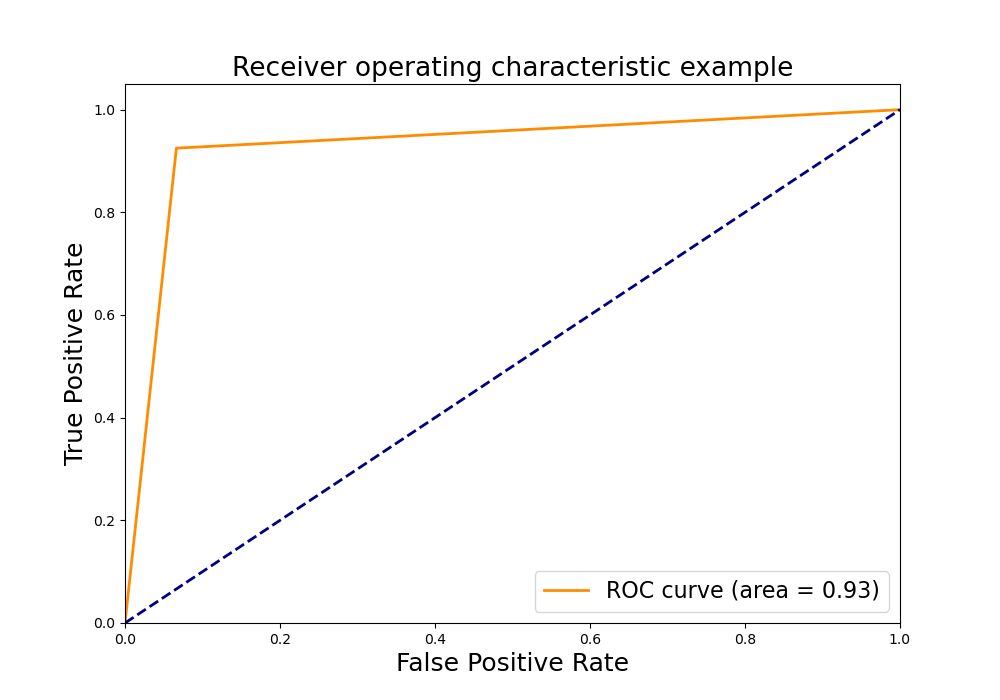
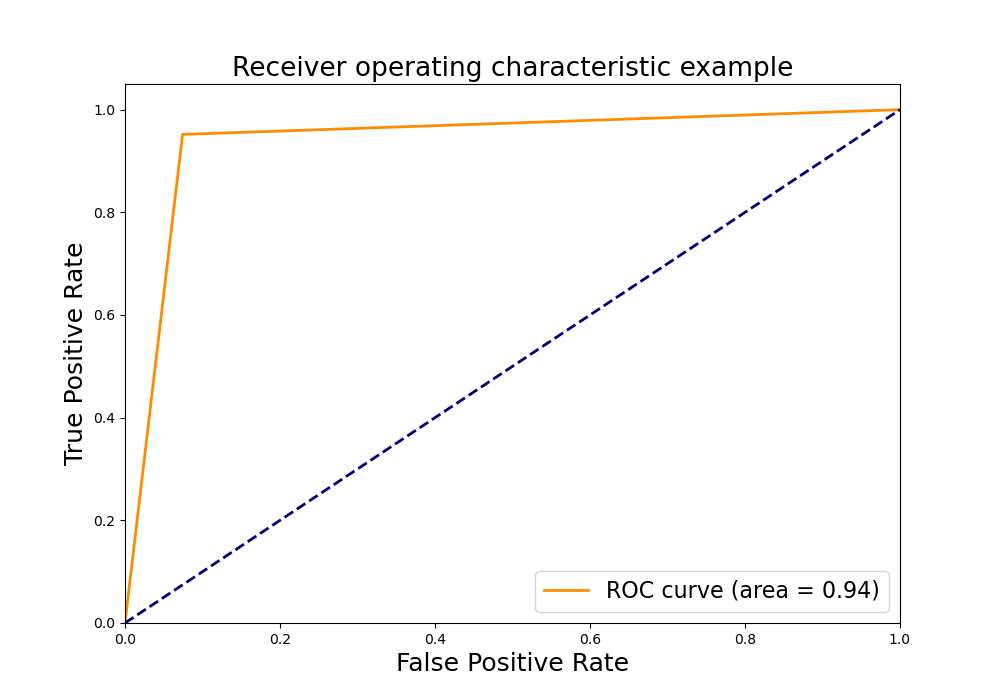
lib_classification save_model_diagnostics ok

diff --git a/sources/classification/lib_classification.py b/sources/classification/lib_classification.py
@@ -216,7 +216,12 @@ def do_cross_validation(X_train, y_train, scorings, num_iter, k, dataset_name=""
     f.close()
 
 
-def get_confusion_matrix(y_test, y_pred, class_names, model, savefig=True, dataset_name="", plotfig=False):
+def make_output_dir(dataset_name):
+    if not os.path.exists("./data/output/{}".format(dataset_name)):
+        os.makedirs("./data/output/{}".format(dataset_name)) 
+
+
+def save_confusion_matrix(y_test, y_pred, class_names, model, dataset_name=""):
     """Affiche la matrice de confusion
 
     Parametres: 
@@ -255,21 +260,17 @@ def get_confusion_matrix(y_test, y_pred, class_names, model, savefig=True, datas
     plt.xlabel("Catégories prédites", fontsize=font_size + 3)
     plt.ylabel("Catégories réelles", fontsize=font_size + 3)
     print("dataset_name =", dataset_name)
-    if(savefig):
-        if not os.path.exists("./data/output/{}".format(dataset_name)):
-            os.makedirs("./data/output/{}".format(dataset_name)) 
-        path = "./data/output/{}/confusion_matrix_{}".format(dataset_name, model.__class__.__name__)
-        plt.savefig(path)
-    if(plotfig):
-        plt.show()
+
+    path = "./data/output/{}/confusion_matrix_{}".format(dataset_name, model.__class__.__name__)
+    plt.savefig(path)
 
 
 #Entrees
     #train_sizes (liste de float) : tailles du train en pourcentage 
     # y_train (numpy ndarray int) : Les etiquettes au format int (le format string ne marche pas)
     #cv_param : parametres de type kfold pour la cross validation
-def get_learning_curve(model, X_train, y_train, cv_param, scoring, train_sizes, n_jobs=-1, 
-                        savefig=True, dataset_name="", plotfig=True):
+def save_learning_curve(model, X_train, y_train, cv_param, scoring, train_sizes, n_jobs=-1, 
+                        dataset_name=""):
     """Affiche la learning curve du modele selectionne selon un critere
        Learning curve = performances du modele (selon un critere) en fonction de la taille du trainset
 
@@ -305,15 +306,14 @@ def get_learning_curve(model, X_train, y_train, cv_param, scoring, train_sizes, 
     plt.xlabel("Taille du trainset", fontsize=18)
     plt.ylabel(scoring.capitalize(), fontsize=18)
     plt.legend(loc="upper right", prop={'size': 16})
-    if(savefig):
-        path = "./data/output/{}/learning_curve_{}_{}".format(dataset_name, model.__class__.__name__, scoring)
-        plt.savefig(path)
-    if(plotfig):
-        plt.show()
+    
+    path = "./data/output/{}/learning_curve_{}_{}".format(dataset_name, model.__class__.__name__, scoring)
+    plt.savefig(path)
 
 
-def get_all_learning_curves(model, X_train, y_train, cv_param, scorings, train_sizes, n_jobs=-1, 
-                            savefig=False, dataset_name="", plotfig=False):
+
+def save_all_learning_curves(model, X_train, y_train, cv_param, scorings, train_sizes, n_jobs=-1, 
+                            dataset_name=""):
     """Affiche les learning curves du modele selectionne selon les critere choisis par l'utilisateur
        Learning curve = performances du modele (selon un critere) en fonction de la taille du trainset
 
@@ -330,16 +330,15 @@ def get_all_learning_curves(model, X_train, y_train, cv_param, scorings, train_s
     train_sizes (liste de float) : La liste des tailles des train (en pourcentage du train total original)
                                    Exemple : [0.2, 0.5, 0.7] = 20 % du train, 50 % du train, 70 % du train
     n_jobs (int) : Le nombre de jobs
-    savefig (string) : Indique si on enregistre les learning curves dans une image
     dataset_name (string) : Dossier des sorties du dataframe etudie
     """
     for scoring in scorings:
-        print("scoring = ", scoring)
-        get_learning_curve(model, X_train, y_train, cv_param, scoring, train_sizes, n_jobs, 
-                            savefig, dataset_name, plotfig)
+        print("scoring =", scoring)
+        save_learning_curve(model, X_train, y_train, cv_param, scoring, train_sizes, n_jobs, 
+                            dataset_name)
 
 
-def get_roc(model, y_true, y_pred, savefig=True, dataset_name="", plotfig=False):
+def save_roc(model, y_true, y_pred, dataset_name=""):
     """Affiche la courbe roc
 
     Parametres: 
@@ -364,17 +363,55 @@ def get_roc(model, y_true, y_pred, savefig=True, dataset_name="", plotfig=False)
     plt.ylabel("True Positive Rate", fontsize=18)
     plt.title("Receiver operating characteristic example", fontsize=19)
     plt.legend(loc="lower right", prop={'size': 16})
-    if(savefig):
-        path = "./data/output/{}/roc_{}".format(dataset_name, model.__class__.__name__)
-        plt.savefig(path)
-    if(plotfig):
-        plt.show()
 
-
-def get_classification_report(y_test, y_pred, dataset_name, model):
-    report = classification_report(y_test, y_pred)
     path = "./data/output/{}/roc_{}".format(dataset_name, model.__class__.__name__)
-    
+    plt.savefig(path)
+
+
+def save_classification_report(y_test, y_pred, dataset_name, model):
+    report = classification_report(y_test, y_pred)
+    print("type report = ", type(report))
+    print("report =", report)
+    path = "./data/output/{}/classification_report_{}.txt".format(dataset_name, model.__class__.__name__)
+    f = open(path, "w")
+    f.write(report)
+    f.close()
+
+
+def save_false_predictions(corpus, dataset_name, indices_test, y_test, y_pred, class_names):
+    # On enregistre les messages a propos desquels le modele s'est trompe
+    corpus_test = pd.DataFrame({"id":corpus.iloc[indices_test].id, "message": corpus.iloc[indices_test].message, "truth":y_test, "pred":y_pred})
+    corpus_test_errors = corpus_test.query("truth != pred")
+    corpus_test_errors = corpus_test_errors[["id", "truth", "pred", "message"]]
+    corpus_test_errors["truth"] = np.select([corpus_test_errors["truth"] == 0], [class_names["0"]], default=class_names["1"])
+    corpus_test_errors["pred"] = np.select([corpus_test_errors["pred"] == 0], [class_names["0"]], default=class_names["1"])
+    corpus_test_errors.to_csv("./data/output/{}/false_predictions.csv".format(dataset_name), index=False, header=True)
+
+
+def save_model_diagnostics(corpus, X_train, y_train, y_test, y_pred, indices_test, class_names, model, 
+                            dataset_name):
+    # Classification report
+    save_classification_report(y_test, y_pred, dataset_name, model)
+
+    # Matrice de confusion
+    save_confusion_matrix(y_test, y_pred, class_names, model, dataset_name)
+
+    # Courbe ROC
+    save_roc(model, y_test, y_pred, dataset_name)
+
+    # Learning curves
+    k = 10
+    kfold = RepeatedStratifiedKFold(n_splits=k, n_repeats=20, random_state=None)
+    cv_param = kfold
+    num_experiences = 4
+    train_sizes = np.linspace(0.2, 1.0, num_experiences)
+    n_jobs = -1
+    scorings = ['accuracy', 'f1_macro', 'recall', 'precision']
+    save_all_learning_curves(model, X_train, y_train, cv_param, scorings, train_sizes, n_jobs, 
+                                dataset_name)
+
+    # False predictions
+    save_false_predictions(corpus, dataset_name, indices_test, y_test, y_pred, class_names)
 
 
 def select_models(filenames, format_input):
@@ -410,10 +447,6 @@ def select_models(filenames, format_input):
         X_train, X_test, y_train, y_test, indices_train, indices_test = get_train_and_test(corpus, features_col_names, class_col_name, id_col_name)
         X_train_tfidf, X_test_tfidf = apply_tfidf_to_train_and_test(X_train, X_test)
 
-        # Creation du dossier de sorties si besoin
-        if(savefig):
-            os.makedirs("./data/output/" + corpus_name, exist_ok=True)
-
         # Cross validation
         # scorings = ['accuracy', 'f1_macro', "recall", "precision"]
         # num_iter = 2 #nombre de repetitions de la k-fold cross validation entiere
@@ -421,17 +454,14 @@ def select_models(filenames, format_input):
         # do_cross_validation(X_train_tfidf, y_train, scorings, num_iter, k, corpus_name)
 
         ## Learning curves (du meilleur modele)
-        k = 10
-        kfold = RepeatedStratifiedKFold(n_splits=k, n_repeats=20, random_state=None)
-        cv_param = kfold
-        num_experiences = 4
-        train_sizes = np.linspace(0.2, 1.0, num_experiences)
-        # n_jobs = -1
-        model = SVC()
+        # k = 10
+        # kfold = RepeatedStratifiedKFold(n_splits=k, n_repeats=20, random_state=None)
+        # cv_param = kfold
+        # num_experiences = 4
+        # train_sizes = np.linspace(0.2, 1.0, num_experiences)
+        # # n_jobs = -1
+        # model = SVC()
 
-        scorings = ['accuracy', 'f1_macro', 'recall', 'precision']
-        get_all_learning_curves(model, X_train_tfidf, y_train, cv_param, scorings, train_sizes, n_jobs=-1, 
-                                    savefig=savefig, dataset_name=corpus_name)
-        
-        # get_all_learning_curves(model, X_train, y_train, cv_param, scorings, train_sizes, n_jobs=-1, 
-        #                     savefig=False, dataset_name="", plotfig=False)
+        # scorings = ['accuracy', 'f1_macro', 'recall', 'precision']
+        # save_all_learning_curves(model, X_train_tfidf, y_train, cv_param, scorings, train_sizes, n_jobs=-1, 
+        #                             dataset_name=corpus_name)

diff --git a/sources/classification/tfidf/3_train_test_best_model.py b/sources/classification/tfidf/3_train_test_best_model.py
@@ -41,7 +41,7 @@ corpus = pd.read_csv("./data/input/merged_corpus/{}".format(filename_corpus)) #e
 corpus = get_balanced_binary_dataset(corpus, class_col_name="category")
 corpus_name = get_corpus_name_from_filename(filename_corpus)
 print("corpus_name =", corpus_name)
-le=joblib.load("./data/input/merged_corpus/labelEncoder_category_{}.joblib".format(corpus_name))
+le = joblib.load("./data/input/merged_corpus/labelEncoder_category_{}.joblib".format(corpus_name))
 print("le =", le)
 print("le.class =", le.classes_)
 class_names = {"0":le.classes_[0], "1":le.classes_[1]}
@@ -55,10 +55,8 @@ corpus
 
 model = SGDClassifier()
 X = corpus["message_preprocessed"]
-y = corpus["category"]
-print(y)
+y_str = corpus["category"]
 y = corpus["category_bin"]
-print(y)
 indices = corpus["id"]
 # X_train, X_test, y_train, y_test = train_test_split(X, y, test_size=0.3, stratify=y)
 X_train, X_test, y_train, y_test, indices_train, indices_test = train_test_split(X, y, indices, test_size=0.33, random_state=42)
@@ -74,9 +72,30 @@ print(y_pred)
 print(X_test.shape)
 print(X_test_tfidf.shape)
 
-# Obtenir les resultats (sauvegarde sur disque)
+### Obtenir les resultats (sauvegarde sur disque)
+# Creation du dossier de sorties si besoin
+make_output_dir(corpus_name)
+# save_model_diagnostics(X_train_tfidf, y_train, y_test, y_pred, class_names, model, corpus_name)
+save_model_diagnostics(corpus, X_train, y_train, y_test, y_pred, indices_test, class_names, model, 
+                            corpus_name)
+# save_false_predictions(corpus, corpus_name, indices_test, y_test, y_pred, class_names)
+
+# Classification report
+# save_classification_report(y_test, y_pred, corpus_name, model)
+
 # Matrice de confusion
-get_confusion_matrix(y_test, y_pred, class_names, model, savefig=True, dataset_name=corpus_name)
+# save_confusion_matrix(y_test, y_pred, class_names, model, dataset_name=corpus_name)
 
 # Courbe ROC
-get_roc(model, y_test, y_pred, savefig=True, dataset_name=corpus_name)
+# save_roc(model, y_test, y_pred, dataset_name=corpus_name)
+
+# Learning curves
+# k = 10
+# kfold = RepeatedStratifiedKFold(n_splits=k, n_repeats=20, random_state=None)
+# cv_param = kfold
+# num_experiences = 4
+# train_sizes = np.linspace(0.2, 1.0, num_experiences)
+# # n_jobs = -1
+# scorings = ['accuracy', 'f1_macro', 'recall', 'precision']
+# save_all_learning_curves(model, X_train_tfidf, y_train, cv_param, scorings, train_sizes, n_jobs=-1, 
+#                             dataset_name=corpus_name)

diff --git a/sources/create_dataset/1_create_multiple_topic_corpus.py b/sources/create_dataset/1_create_multiple_topic_corpus.py
@@ -14,11 +14,8 @@ sys.path.append("../")
 
 def test_corpusMerger(corpus_txt_list_filename, output_format, language):
     corpusMerger = CorpusMerger(corpus_txt_list_filename, language)
-    # print(corpusMerger)
-    # print(corpusMerger.merged_corpus_dataframe.value_counts("category"))
     corpusMerger.preprocess_merged_corpus_dataframe()
     corpusMerger.save_merged_corpus_dataframe(output_format)
-    # print(corpusMerger)
 
 
 def main():
